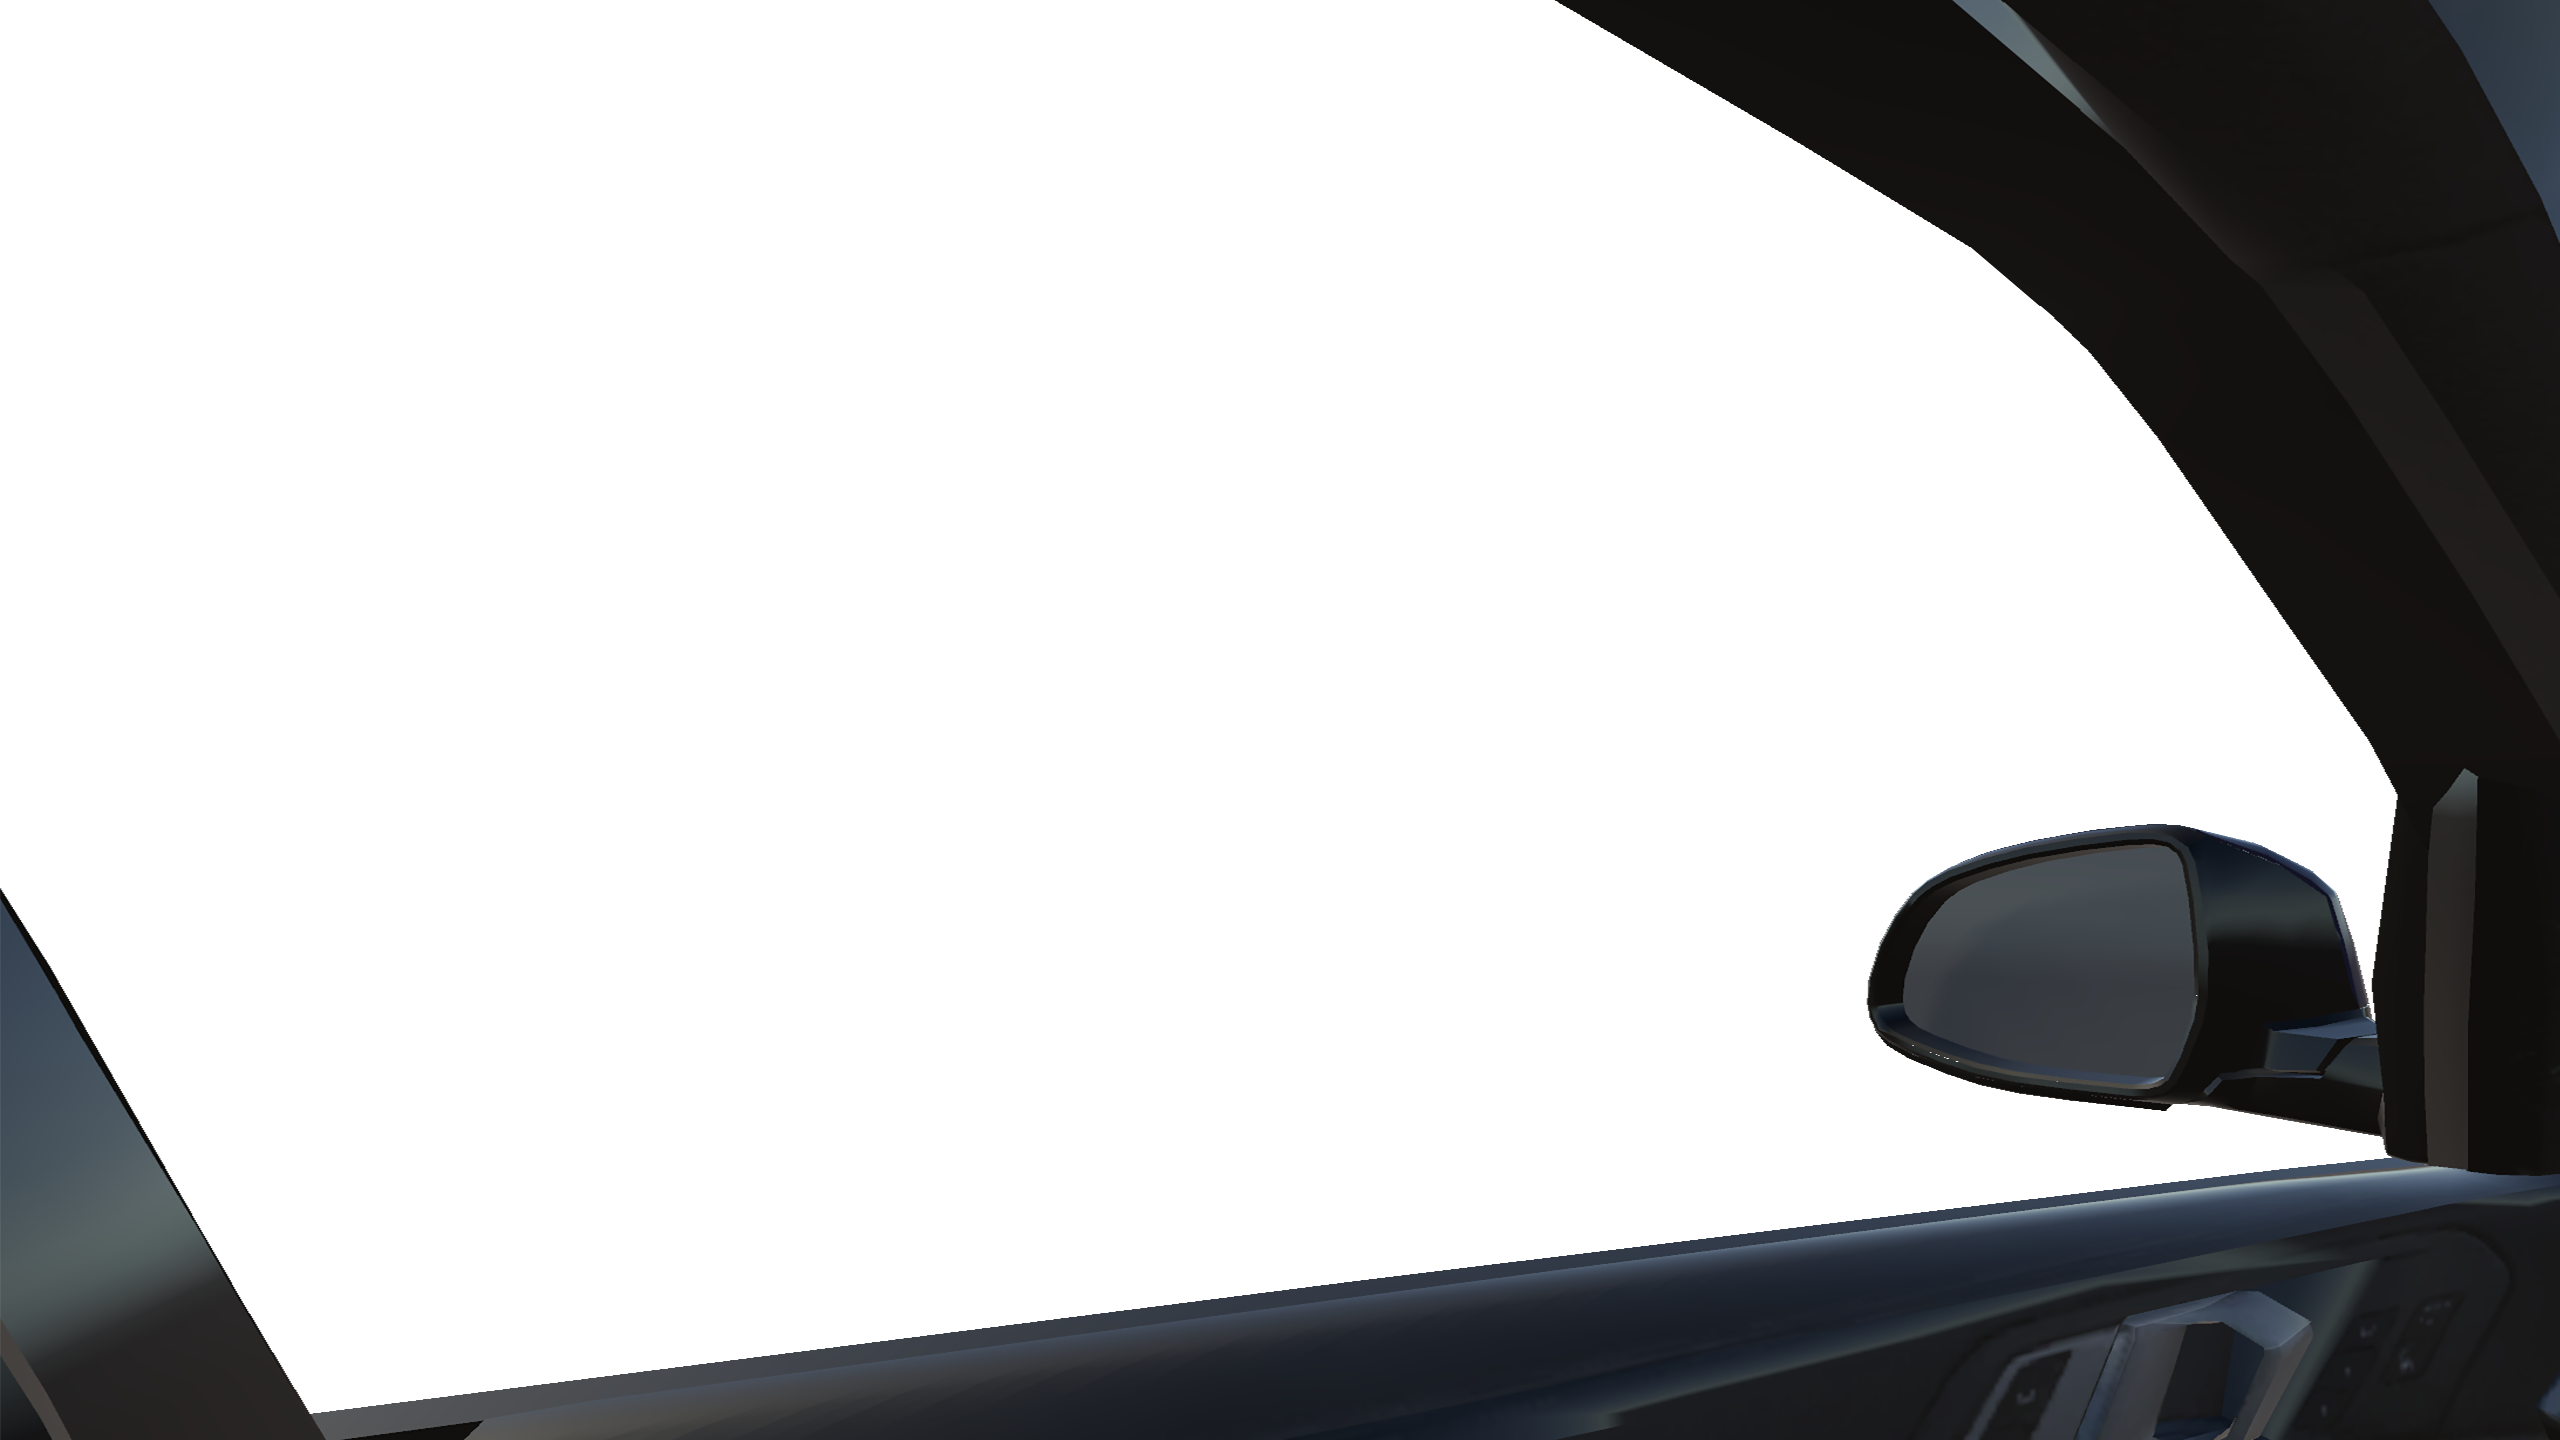
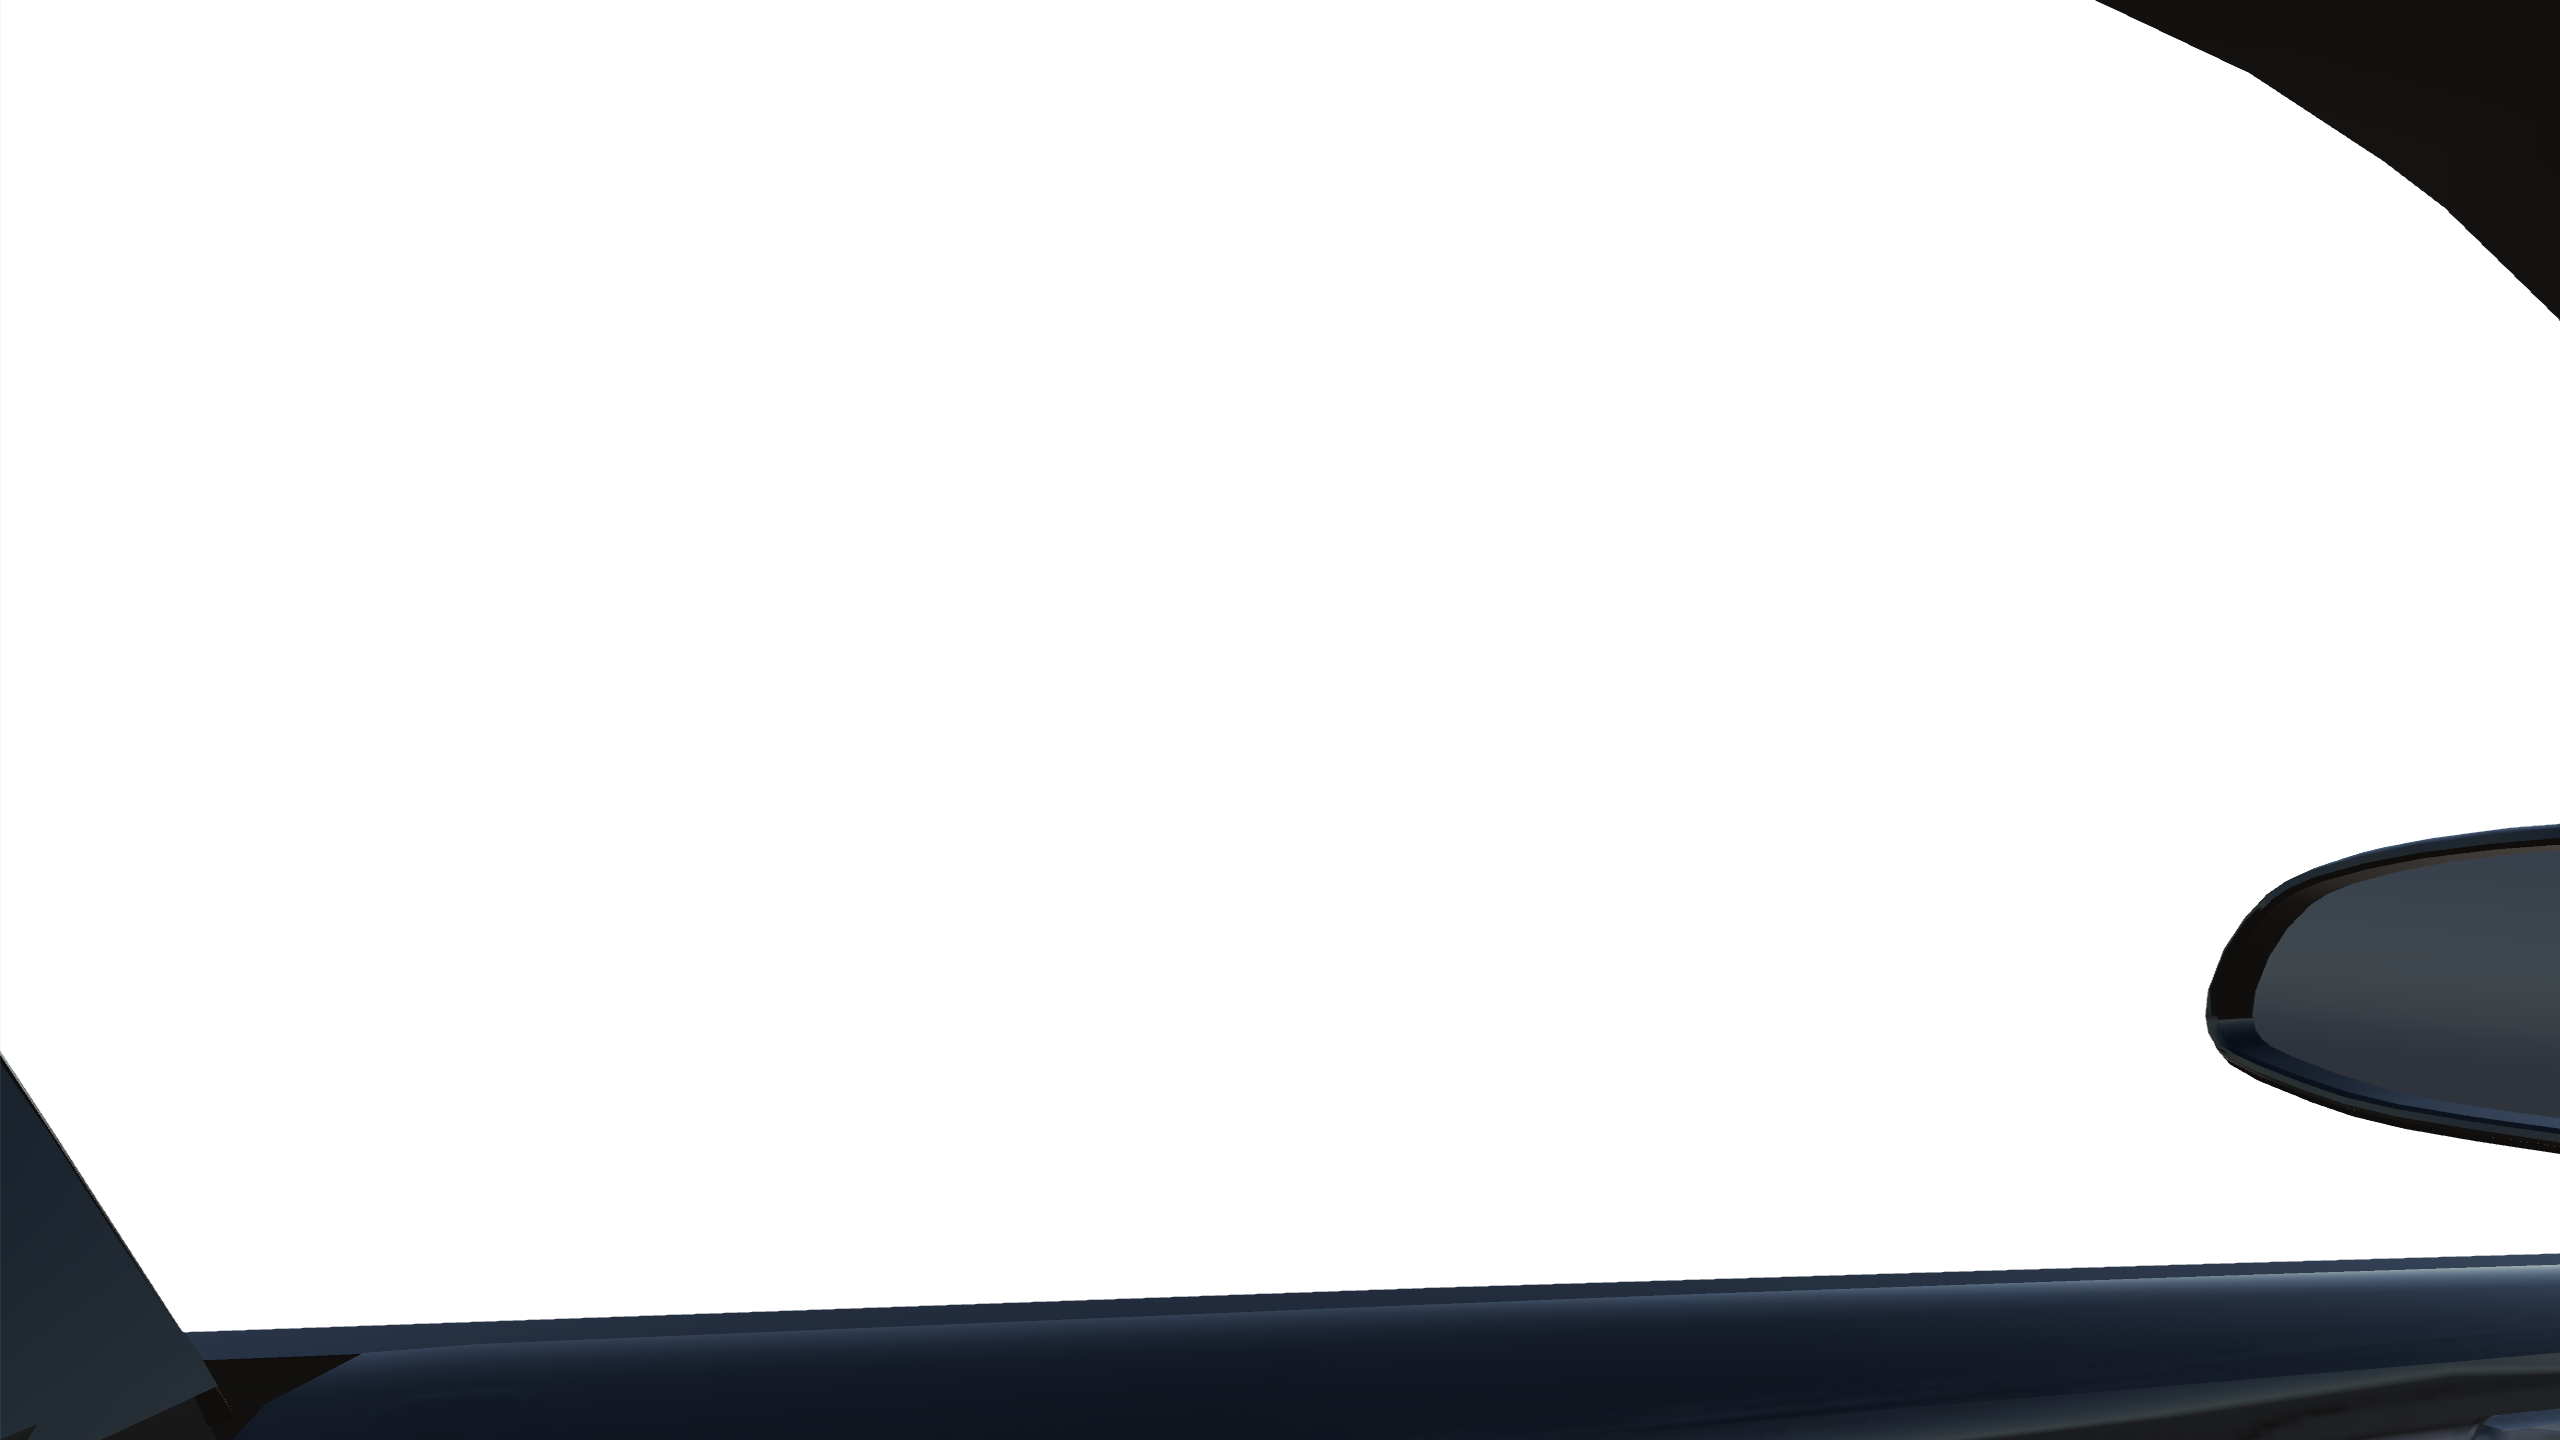
車の枠画像を変更、カメラの角度も画像に合わせて調整、スタートカウントダウンのSEを実装
・車の枠画像を変更
・カメラの角度を画像に合わせて調整（平行よりに調整）
・スタートカウントダウンのSEをテキストが表示されたタイミングで再生するように実装

diff --git a/Sources/Ui.cpp b/Sources/Ui.cpp
@@ -4,6 +4,7 @@
 #include "Stage.h"
 #include "Button.h"
 #include "Input.h"
+#include "Audio.h"
 
 /*UIManagerクラス---------------------------------------------------------------------------------------------------------*/
 
@@ -134,7 +135,6 @@ void UIManager::DrawStartCountDown() {
 	if (startTime + WAITTIME[drawCount] > GetNowCount())  return;
 
 	if (fadeManager.GetAlphaValue() == 0) {	// α値が0ならフェードインするようにフェード速度を設定する
-		//textFadeSpeed = TEXT_FADE_SPEED[0];
 
 		// フェードアウトから0になった場合は一度処理を抜けて次のテキストの描画に移る
 		if (isFadeOut) {
@@ -145,8 +145,11 @@ void UIManager::DrawStartCountDown() {
 	}
 	else if (fadeManager.GetAlphaValue() == 255) {	// 文字が完全に描画出来たらフェードアウトするように切り替える
 		isFadeOut = true;	// フェードアウト処理を行っている状態に切り替える
-		if (drawCount == 1)base.SetIsGameStop(false);	// 最後のテキスト描画時の場合ゲームの停止を解除数r
-		//textFadeSpeed = TEXT_FADE_SPEED[1];
+		audioManager.PlaySE(audioManager.UI_READY);
+		if (drawCount == 1) {
+			base.SetIsGameStop(false);	// 最後のテキスト描画時の場合ゲームの停止を解除する
+			audioManager.PlaySE(audioManager.UI_GO);
+		}
 	}
 }
 

diff --git a/Sources/Player.cpp b/Sources/Player.cpp
@@ -104,12 +104,12 @@ void Player::Jump() {
 		jumpDis = 0;
 		jumpPower -= isGravityBottom ? GRAVITY : -GRAVITY;	// ジャンプパワーにグラビティを加算し続け加速しながら落下していく
 		// 落下アニメーションを再生
-		if (fabsf(BOTTOM_GROUND - transform.position.y) < 100 || fabsf(TOP_GROUND - 70 - transform.position.y) < 100) {		//リファクタリング
+		if (fabsf(BOTTOM_GROUND - transform.position.y) < 100 || fabsf(TOP_GROUND - transform.position.y) < 100) {		//リファクタリング
 			modelIndex = 2;
 			PlayAnimation(modelData[modelIndex], false);
 		}
 		// 画面上部からはみ出たらゲームオーバー
-		if (transform.position.y > 1700) {
+		if (transform.position.y > 3000) {
 			fadeManager.ChangeUIState(GAMEOVER, NOTFADE);
 			audioManager.PlaySE(audioManager.JINGLE_GAMEOVER);
 		}

diff --git a/Sources/Audio.cpp b/Sources/Audio.cpp
@@ -11,6 +11,8 @@ void AudioManager::SetUp() {
 	se[BUTTON_SELECT] = LoadSoundMem("Resource/Audios/SE_ButtonSelect.mp3");
 	se[JINGLE_CLEAR] = LoadSoundMem("Resource/Audios/JINGLE_Clear.mp3");
 	se[JINGLE_GAMEOVER] = LoadSoundMem("Resource/Audios/JINGLE_GameOver.mp3");
+	se[UI_READY] = LoadSoundMem("Resource/Audios/SE_Ready.mp3");
+	se[UI_GO] = LoadSoundMem("Resource/Audios/SE_Go.mp3");
 	bgm[OUTGAME_BGM] = LoadSoundMem("Resource/Audios/BGM_Title.mp3");
 	bgm[INGAME_BGM] = LoadSoundMem("Resource/Audios/BGM_InGame.mp3");
 	// 音量設定

diff --git a/Headers/CameraLight.h b/Headers/CameraLight.h
@@ -20,7 +20,7 @@ private:
 	VECTOR					cameraLookPos;			// カメラの注視点
 	static constexpr int	CAMERA_MOVE_LIMIT = 4;	// プレイヤーの加速カウントが指定の値を超えたらプレイヤーを追従しないようにする
 	static constexpr VECTOR START_CAMERA_POS = { 350, 330, -600 };	// カメラの初期座標
-	static constexpr VECTOR START_CAMERA_LOOKPOS = { 520, 320, 0 };	// カメラの初期注視点
+	static constexpr VECTOR START_CAMERA_LOOKPOS = { 390, 320, 0 };	// カメラの初期注視点
 };
 
 

diff --git a/Headers/Player.h b/Headers/Player.h
@@ -106,7 +106,7 @@ private:
 	int			animePastModel = 0;			// 前回再生していたアニメーションモデルを保存
 	float		animePlayTotalTime = 0;		// 再生しているアニメーションのそう再生時間を保存
 
-	static constexpr float	TOP_GROUND = 840.0f;	// 上側の地面の座標
+	static constexpr float	TOP_GROUND = 770.0f;	// 上側の地面の座標
 	static constexpr float	GRAVITY = 0.7f;			// 重力
 	static constexpr float	JUMP_POWER = 10;		// ジャンプ力
 

diff --git a/Headers/Audio.h b/Headers/Audio.h
@@ -13,6 +13,8 @@ public:
 		BUTTON_SELECT,		// ボタン選択
 		JINGLE_CLEAR,		// クリアジングル
 		JINGLE_GAMEOVER,	// ゲームオーバージングル
+		UI_READY,
+		UI_GO,
 		SE_MAX_NUM			// SEの種類の最大数
 	};
 
